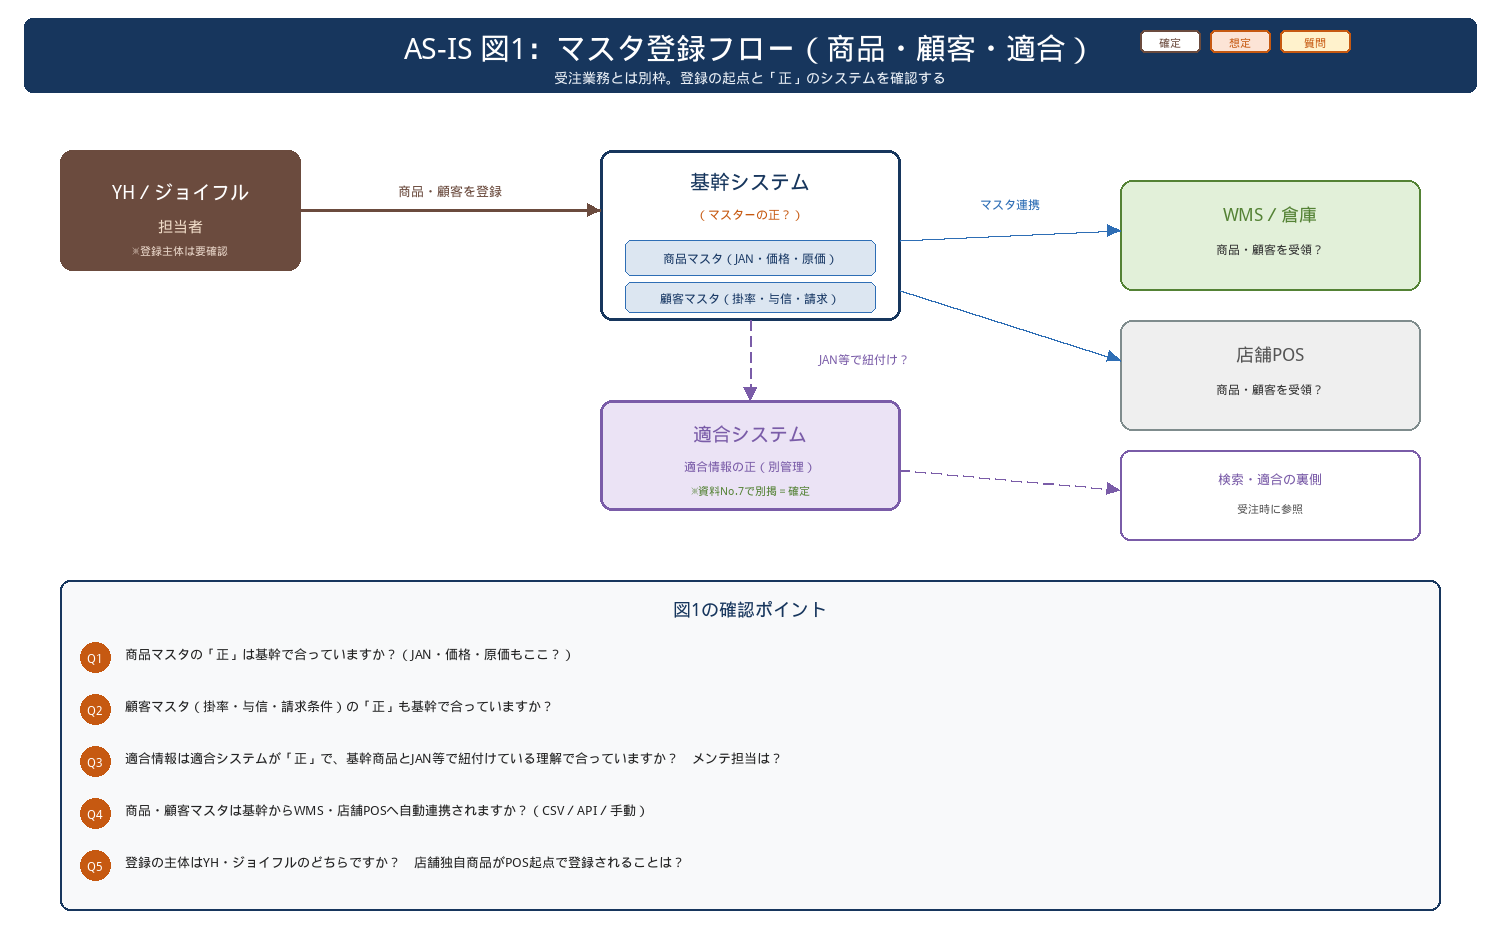
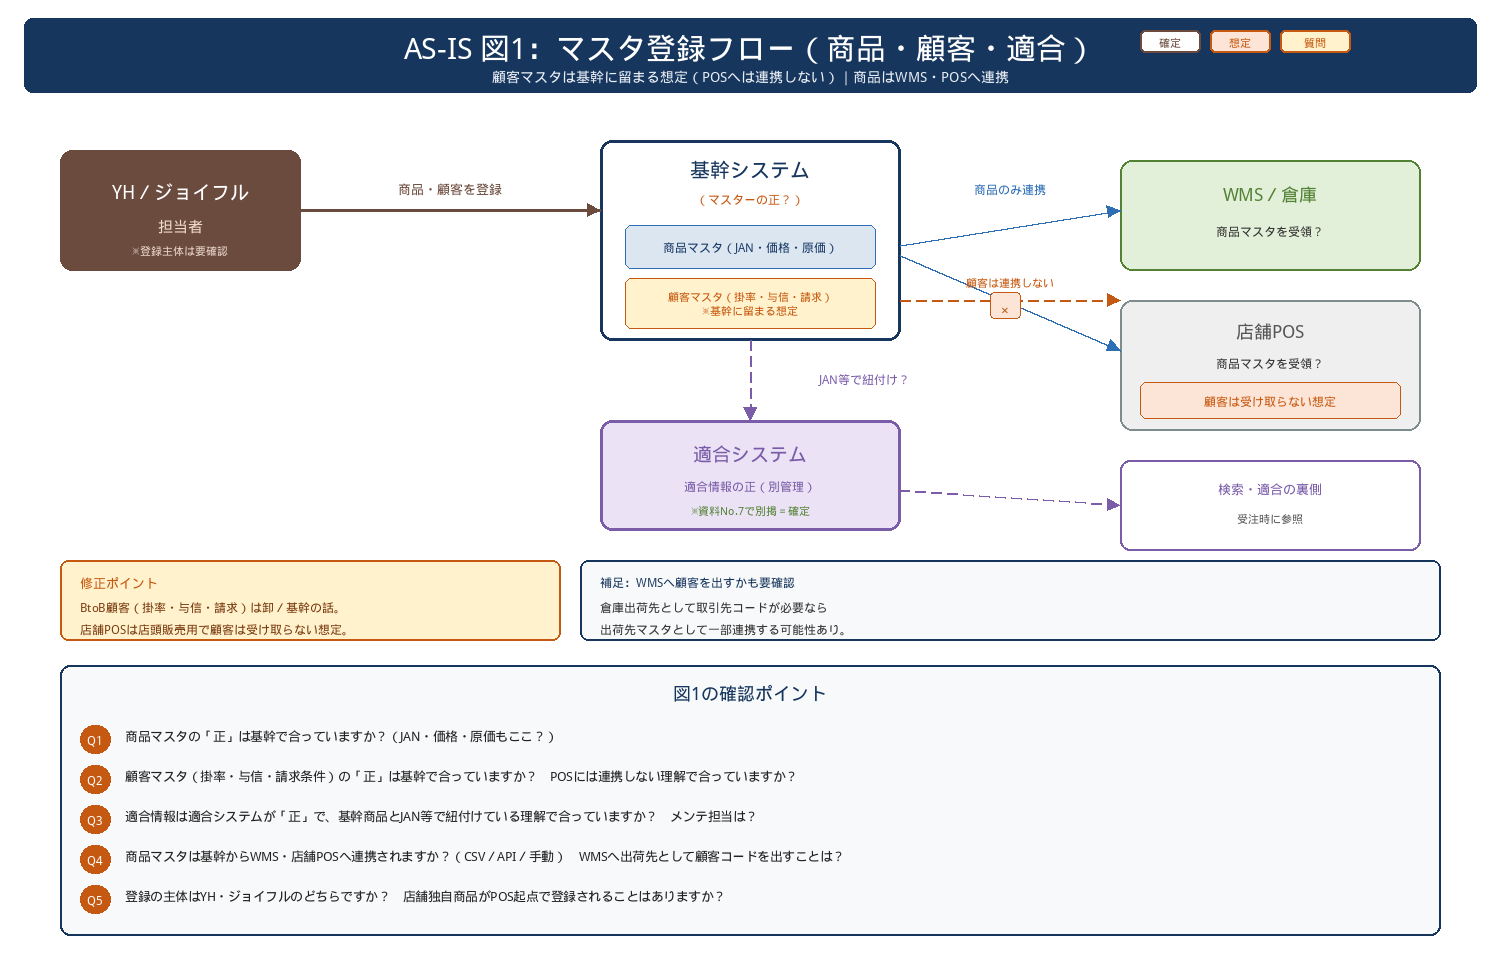
顧客マスタはPOSへ連携しない想定に図1を修正

diff --git a/knowledge/自動車アフターマーケット・部品卸/イエローハット_資料/ASIS_Phase1_確認質問と図解.md b/knowledge/自動車アフターマーケット・部品卸/イエローハット_資料/ASIS_Phase1_確認質問と図解.md
@@ -24,21 +24,21 @@
 
 ```
 YH／ジョイフル担当者
-  ├─ 商品マスタ（JAN・価格・原価）を登録 ─▶ 基幹
-  └─ 顧客マスタ（掛率・与信・請求）を登録 ─▶ 基幹
-                                              │ マスタ連携（自動？）
-                                              ▼
-                                        WMS／倉庫・店舗POS
+  ├─ 商品マスタ（JAN・価格・原価）を登録 ─▶ 基幹 ─▶ WMS／倉庫・店舗POS（商品のみ連携）
+  └─ 顧客マスタ（掛率・与信・請求）を登録 ─▶ 基幹（ここに留まる想定。POSへは連携しない）
 
 適合情報は 適合システム が正（別管理）。基幹商品とJAN等で紐付け、受注時に参照。
 ```
 
+**修正（2026-08-04）**: BtoB顧客マスタは卸／基幹の話。店舗POSは店頭販売用で、**顧客は受け取らない想定**が自然。  
+※WMSへは「出荷先コード」として取引先の一部が出る可能性はある → Q4で確認。
+
 ### 確認質問
 
 - **Q1** 商品マスタの「正」は基幹で合っていますか？（JAN・価格・原価もここ？）
-- **Q2** 顧客マスタ（掛率・与信・請求条件）の「正」も基幹で合っていますか？
+- **Q2** 顧客マスタ（掛率・与信・請求条件）の「正」は基幹で合っていますか？　**POSには連携しない理解で合っていますか？**
 - **Q3** 適合情報は適合システムが「正」で、基幹商品とJAN等で紐付けている理解で合っていますか？ メンテ担当は誰ですか？
-- **Q4** 商品・顧客マスタは基幹からWMS・店舗POSへ自動連携されますか？（CSV／API／手動）
+- **Q4** **商品マスタ**は基幹からWMS・店舗POSへ連携されますか？（CSV／API／手動）　WMSへ出荷先として顧客コードを出すことはありますか？
 - **Q5** 登録の主体はYH・ジョイフルのどちらですか？ 店舗独自商品がPOS起点で登録されることはありますか？
 
 ---
@@ -116,7 +116,7 @@ YH／ジョイフル担当者 ─ 発注入力（アナログ可）─▶ 基幹
 
 > Phase1の現状業務について、以下の理解で合っているかご確認させてください。
 >
-> **マスタ**：商品・顧客マスタは基幹が正で、YH様・ジョイフル様が登録。適合情報のみ適合システムが正で、基幹とJAN等で紐付けている。基幹から WMS・店舗POS へ連携している。
+> **マスタ**：商品・顧客マスタは基幹が正で、YH様・ジョイフル様が登録。**顧客マスタは基幹に留まり、店舗POSへは連携しない**想定。商品マスタのみ WMS・店舗POS へ連携。適合情報は適合システムが正で、基幹とJAN等で紐付けている。
 >
 > **仕入・在庫**：仕入発注と入荷予定は基幹を起点とし、実際の入荷・出荷・棚卸は倉庫（WMS）・店舗（POS）で入力して基幹へ返している。基幹が各拠点の在庫を集約し、販売可能数を計算している。
 >
@@ -131,9 +131,9 @@ YH／ジョイフル担当者 ─ 発注入力（アナログ可）─▶ 基幹
 | No | 枠 | 質問 | 回答 |
 |----|----|------|------|
 | Q1 | マスタ | 商品マスタの正は基幹？ | |
-| Q2 | マスタ | 顧客マスタの正は基幹？ | |
+| Q2 | マスタ | 顧客マスタの正は基幹？　POSには連携しない？ | |
 | Q3 | マスタ | 適合＝適合システムが正／紐付け・メンテ担当？ | |
-| Q4 | マスタ | 基幹→WMS/POSへ自動連携？ | |
+| Q4 | マスタ | 商品のみ基幹→WMS/POS連携？　WMSへ出荷先コードは？ | |
 | Q5 | マスタ | 登録主体はYH/ジョイフル？ 店舗起点は？ | |
 | Q6 | 在庫 | 倉庫・店舗の実在庫の正は基幹かWMS/POSか？ | |
 | Q7 | 在庫 | 発注主体・システム／入荷予定は基幹？ | |
@@ -150,3 +150,4 @@ YH／ジョイフル担当者 ─ 発注入力（アナログ可）─▶ 基幹
 | 日付 | 内容 |
 |------|------|
 | 2026-08-04 | 適合＝適合システム正を反映。マスタ／仕入・在庫／受注・出荷の3図＋12問を作成 |
+| 2026-08-04 | 顧客マスタはPOSへ連携しない想定に修正（図1・Q2・Q4） |
